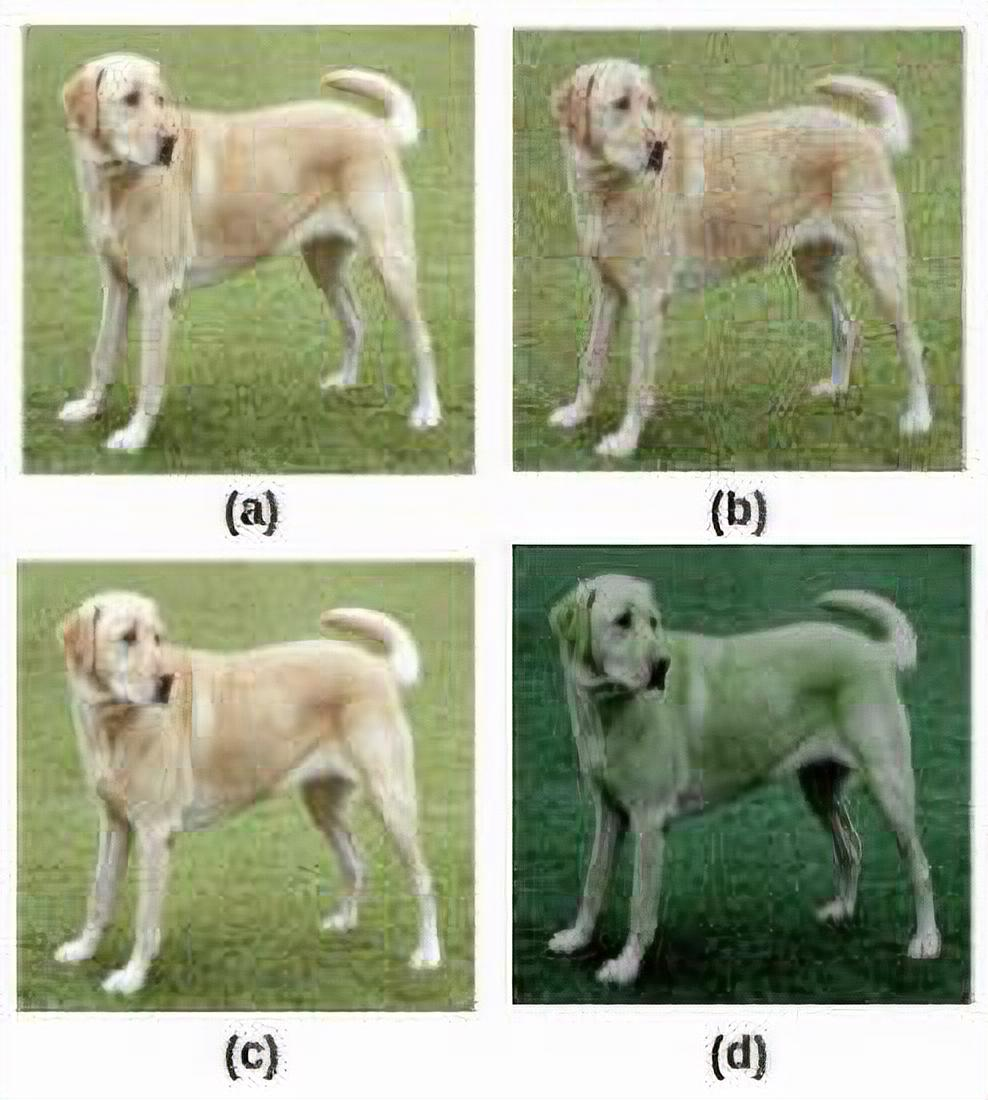
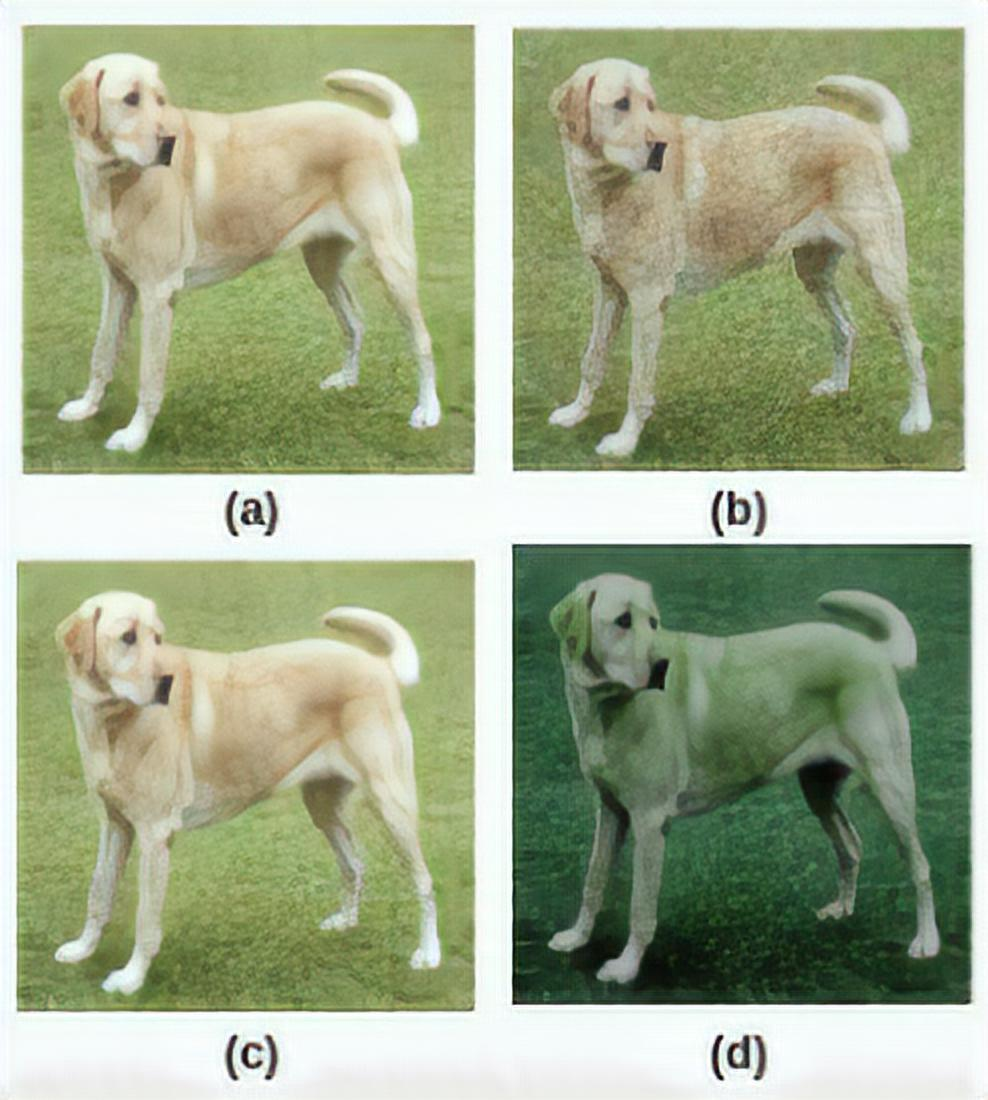
Update Posts “simple-and-intuitive-introduction-to-self-supervised-learning-for-beginners-part-1”

diff --git a/content/posts/simple-and-intuitive-introduction-to-self-supervised-learning-for-beginners-part-1.md b/content/posts/simple-and-intuitive-introduction-to-self-supervised-learning-for-beginners-part-1.md
@@ -63,7 +63,7 @@ When telling about SSL, we certainly have to mention pretext tasks and downstrea
 
 <p align=center style="width: 10px;">
 
-![](../../static/images/uploads/ssl_general_pipeline.png)
+![](../../static/images/uploads/ssl_general_pipeline.jpg)
 
 </p>
 
@@ -79,7 +79,7 @@ Here are some pretext tasks.
 
 <p align=center>
 
-![](../../static/images/uploads/color_transformation_as_pretext_task_cancel_and_psnr_large.jpg)
+![](../../static/images/uploads/color_transformation_as_pretext_task.jpg)
 
 </p>
 <p align=center><em><b>Figure 2:</b> Color Transformation as a pretext task (Image from \\\[4]).</em> (a) Original
